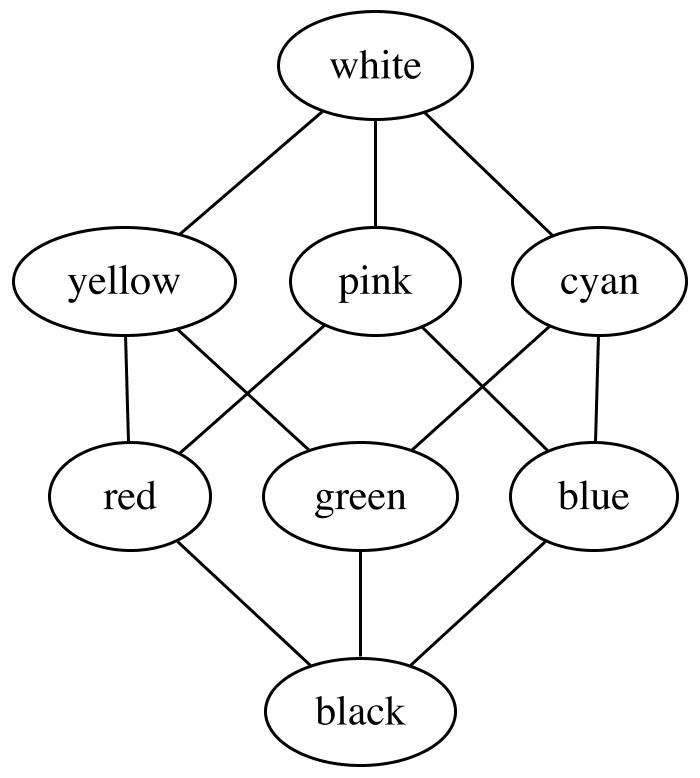
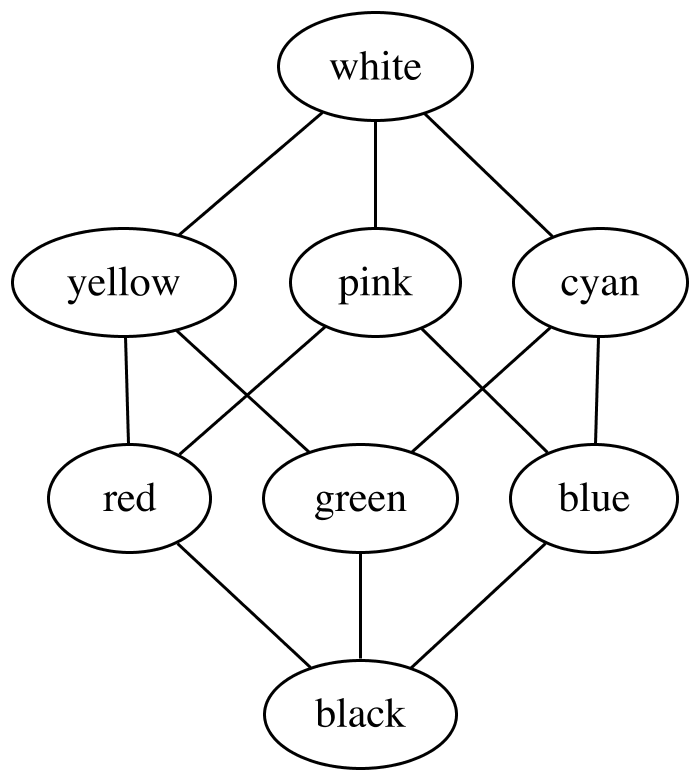
correct size of images, support DPI graph attribute (fix #104)

diff --git a/graphviz-java/src/test/java/guru/nidi/graphviz/engine/OptionsTest.java b/graphviz-java/src/test/java/guru/nidi/graphviz/engine/OptionsTest.java
@@ -46,7 +46,7 @@ class OptionsTest {
     @Test
     void fromJsonOneImage() throws IOException {
         final Options options = Options.fromJson("{engine:'DOT',format:'PNG',images:["
-                + "{path:'" + new File(".").getAbsolutePath() + "/example/ex1.png',width:'550px',height:'100px'}]}");
+                + "{path:'" + new File(".").getAbsolutePath() + "/example/ex1.png',width:'547px',height:'100px'}]}");
         final Options expected = Options.create().engine(Engine.DOT).format(Format.PNG).image("example/ex1.png");
         assertEquals(expected, options);
     }
@@ -54,8 +54,8 @@ class OptionsTest {
     @Test
     void fromJsonTwoImages() throws IOException {
         final Options options = Options.fromJson("{engine:'DOT',format:'PNG',images:["
-                + "{path:'" + new File(".").getAbsolutePath() + "/example/ex1.png',width:'550px',height:'100px'},"
-                + "{path:'" + new File(".").getAbsolutePath() + "/example/ex2.png',width:'900px',height:'964px']}");
+                + "{path:'" + new File(".").getAbsolutePath() + "/example/ex1.png',width:'547px',height:'100px'},"
+                + "{path:'" + new File(".").getAbsolutePath() + "/example/ex2.png',width:'900px',height:'962px']}");
         final Options expected = Options.create().engine(Engine.DOT).format(Format.PNG).image("example/ex1.png").image("example/ex2.png");
         assertEquals(expected, options);
     }
@@ -76,13 +76,13 @@ class OptionsTest {
     void toJsonOneImage() {
         final String s = Options.create().engine(Engine.DOT).format(Format.PNG).basedir(new File("example")).image("ex1.png").toJson(false);
         assertEquals("{format:'svg',engine:'dot',basedir:'" + new File("example").getAbsolutePath() + "',images:[" +
-                "{path:'" + new File("example/ex1.png").getAbsolutePath() + "',width:'550px',height:'100px'}]}", s);
+                "{path:'" + new File("example/ex1.png").getAbsolutePath() + "',width:'547px',height:'100px'}]}", s);
     }
 
     @Test
     void toJsonTwoImages() {
         final String s = Options.create().engine(Engine.DOT).format(Format.PNG).basedir(new File("example")).image("ex1.png").image("ex2.png").toJson(false);
-        assertEquals("{format:'svg',engine:'dot',basedir:'" + new File("example").getAbsolutePath() + "',images:[{path:'" + new File("example/ex1.png").getAbsolutePath() + "',width:'550px',height:'100px'},{path:'" + new File("example/ex2.png").getAbsolutePath() + "',width:'900px',height:'964px'}]}", s);
+        assertEquals("{format:'svg',engine:'dot',basedir:'" + new File("example").getAbsolutePath() + "',images:[{path:'" + new File("example/ex1.png").getAbsolutePath() + "',width:'547px',height:'100px'},{path:'" + new File("example/ex2.png").getAbsolutePath() + "',width:'900px',height:'962px'}]}", s);
     }
 
 }

diff --git a/graphviz-java/src/main/java/guru/nidi/graphviz/engine/Format.java b/graphviz-java/src/main/java/guru/nidi/graphviz/engine/Format.java
@@ -15,6 +15,9 @@
  */
 package guru.nidi.graphviz.engine;
 
+import org.slf4j.Logger;
+import org.slf4j.LoggerFactory;
+
 import java.util.regex.Matcher;
 import java.util.regex.Pattern;
 
@@ -47,7 +50,10 @@ public enum Format {
     JSON("json", "json", false, false),
     JSON0("json0", "json", false, false);
 
+    private static final Logger LOG = LoggerFactory.getLogger(Format.class);
     private static final Pattern FONT_PATTERN = Pattern.compile("font-size=\"(.*?)\"");
+    private static final Pattern SVG_PATTERN = Pattern.compile("<svg width=\"(\\d+)p[tx]\" height=\"(\\d+)p[tx]\"(.*?)>\n"
+            + "<g(.*?)transform=\"(scale\\(.*?\\))?", Pattern.DOTALL);
     final String vizName;
     final String fileExtension;
     final boolean image;
@@ -65,8 +71,18 @@ public enum Format {
     }
 
     private static String postProcessSvg(String result, boolean prefix, double fontAdjust) {
-        final String prefixed = prefix ? withoutPrefix(result) : result;
-        return fontAdjust == 1 ? prefixed : fontAdjusted(prefixed, fontAdjust);
+        final String unprefixed = prefix ? withoutPrefix(result) : result;
+        final String scaled = adjustScale(unprefixed);
+        return fontAdjust == 1 ? scaled : fontAdjusted(scaled, fontAdjust);
+    }
+
+    private static String adjustScale(String svg) {
+        final Matcher m = SVG_PATTERN.matcher(svg);
+        if (!m.find()) {
+            LOG.warn("Generated SVG has not the expected format. There might be image size problems.");
+            return svg;
+        }
+        return m.replaceFirst("<svg width=\"$1px\" height=\"$2px\"$3>\n<g$4transform=\"");
     }
 
     private static String withoutPrefix(String svg) {

diff --git a/graphviz-java/src/main/java/guru/nidi/graphviz/engine/Graphviz.java b/graphviz-java/src/main/java/guru/nidi/graphviz/engine/Graphviz.java
@@ -15,6 +15,7 @@
  */
 package guru.nidi.graphviz.engine;
 
+import guru.nidi.graphviz.attribute.ForGraph;
 import guru.nidi.graphviz.model.*;
 
 import javax.annotation.Nullable;
@@ -22,8 +23,9 @@ import java.io.*;
 import java.util.*;
 import java.util.concurrent.*;
 import java.util.function.Consumer;
+import java.util.function.Function;
 
-import static guru.nidi.graphviz.engine.IoUtils.*;
+import static guru.nidi.graphviz.engine.IoUtils.readStream;
 
 public final class Graphviz {
     @Nullable
@@ -140,7 +142,20 @@ public final class Graphviz {
     }
 
     public static Graphviz fromGraph(MutableGraph graph) {
-        return fromString(new Serializer(graph).serialize());
+        return withDefaultDpi(graph, g -> fromString(new Serializer(g).serialize()));
+    }
+
+    private static <T> T withDefaultDpi(MutableGraph graph, Function<MutableGraph, T> action) {
+        final MutableAttributed<MutableGraph, ForGraph> attrs = graph.graphAttrs();
+        final Object oldDpi = attrs.get("dpi");
+        if (oldDpi == null) {
+            attrs.add("dpi", 96);
+        }
+        try {
+            return action.apply(graph);
+        } finally {
+            attrs.add("dpi", oldDpi);
+        }
     }
 
     public Graphviz engine(Engine engine) {

diff --git a/graphviz-java/src/test/java/guru/nidi/graphviz/engine/GraphvizTest.java b/graphviz-java/src/test/java/guru/nidi/graphviz/engine/GraphvizTest.java
@@ -65,7 +65,7 @@ class GraphvizTest {
         final Graph graph = graph().with(node("a").link("b"));
         final String result = Graphviz.fromGraph(graph).totalMemory(32000).render(Format.SVG).toString();
 
-        assertThat(result, is("render('graph { \"a\" -- \"b\" }',"
+        assertThat(result, is("render('graph { graph [\"dpi\"=\"96\"] \"a\" -- \"b\" }',"
                 + "{format:'svg',engine:'dot',totalMemory:'32000',basedir:'" + new File(".").getAbsolutePath() + "',images:[]});"));
     }
 
@@ -74,7 +74,7 @@ class GraphvizTest {
         final Graph graph = graph().with(node("a").link("b"));
         final String result = Graphviz.fromGraph(graph).render(Format.SVG).toString();
 
-        assertThat(result, is("render('graph { \"a\" -- \"b\" }',"
+        assertThat(result, is("render('graph { graph [\"dpi\"=\"96\"] \"a\" -- \"b\" }',"
                 + "{format:'svg',engine:'dot',basedir:'" + new File(".").getAbsolutePath() + "',images:[]});"));
     }
 

diff --git a/graphviz-java/src/main/java/guru/nidi/graphviz/attribute/GraphAttr.java b/graphviz-java/src/main/java/guru/nidi/graphviz/attribute/GraphAttr.java
@@ -31,6 +31,10 @@ public final class GraphAttr {
     private GraphAttr() {
     }
 
+    public static Attributes<ForGraph> dpi(int dpi) {
+        return new SingleAttributes<>("dpi", dpi);
+    }
+
     public static Attributes<ForGraph> sizeMax(double size) {
         return new SingleAttributes<>(SIZE, size);
     }
